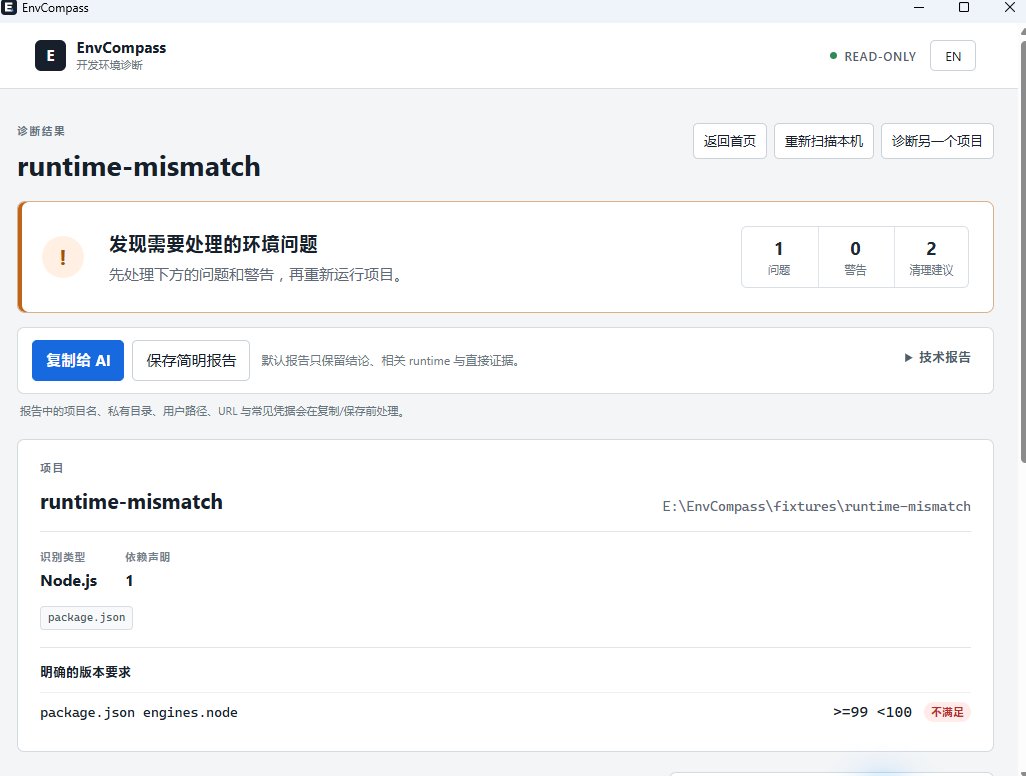
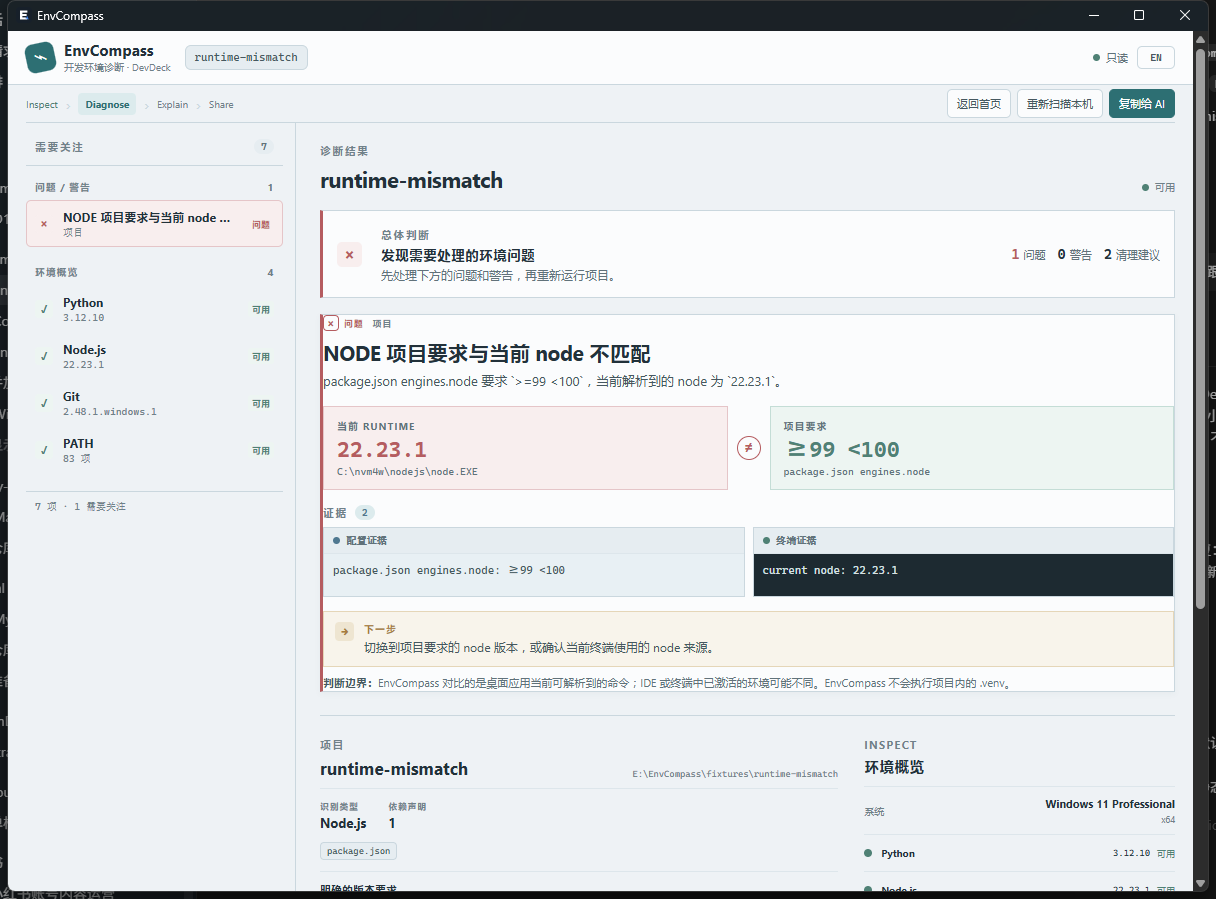
docs(ui): checkpoint DevDeck Light readability updates

diff --git a/src/App.css b/src/App.css
@@ -29,7 +29,7 @@
 
 * { box-sizing: border-box; }
 html, body, #root { min-height: 100%; height: 100%; }
-body { margin: 0; background: #dfe7eb; color: var(--ink); font-family: "Segoe UI", "Microsoft YaHei", "Noto Sans SC", system-ui, sans-serif; font-size: 13px; -webkit-font-smoothing: antialiased; }
+body { margin: 0; background: #dfe7eb; color: var(--ink); font-family: "Segoe UI", "Microsoft YaHei", "Noto Sans SC", system-ui, sans-serif; font-size: 14px; -webkit-font-smoothing: antialiased; }
 button, summary { font: inherit; }
 button { color: inherit; }
 button:disabled { cursor: wait; opacity: .6; }
@@ -53,12 +53,12 @@ code, .mono { font-family: var(--mono); font-variant-numeric: tabular-nums; }
 .lang-toggle { min-width: 38px; padding: 5px 8px; font: 700 10px var(--mono); }
 .lang-toggle:hover, .results-actions button:hover, .report-primary-actions button:hover, .advanced-report button:hover { background: var(--panel-2); }
 
-.workspace { width: min(1420px, calc(100% - 36px)); margin: 0 auto; }
+.workspace { width: min(1920px, calc(100% - 48px)); margin: 0 auto; }
 .home { padding: clamp(32px, 7vh, 78px) 0 28px; }
 .home-composition { display: grid; grid-template-columns: minmax(0, 1fr) 280px; gap: clamp(38px, 7vw, 110px); align-items: center; }
 .home-main { max-width: 760px; }
 .home-intro { max-width: 680px; }
-.eyebrow, .section-kicker { color: var(--faint); font-size: 10px; font-weight: 750; letter-spacing: .12em; text-transform: uppercase; }
+.eyebrow, .section-kicker { color: var(--faint); font-size: 11px; font-weight: 750; letter-spacing: .12em; text-transform: uppercase; }
 .home-intro h1 { max-width: 640px; margin: 12px 0 12px; font-size: clamp(29px, 4.5vw, 52px); line-height: 1.05; letter-spacing: -.045em; }
 .home-intro p { max-width: 610px; margin: 0; color: var(--ink-2); font-size: 15px; line-height: 1.65; }
 .action-panel { display: grid; gap: 9px; margin-top: 31px; }
@@ -109,21 +109,21 @@ code, .mono { font-family: var(--mono); font-variant-numeric: tabular-nums; }
 .stage-done strong { color: var(--ink-2); }
 
 .results { width: 100%; padding: 0 18px 28px; }
-.process-bar { width: min(1420px, 100%); margin: 0 auto; min-height: 38px; display: flex; align-items: center; gap: 14px; border-bottom: 1px solid var(--line); }
+.process-bar { width: min(1920px, 100%); margin: 0 auto; min-height: 38px; display: flex; align-items: center; gap: 14px; border-bottom: 1px solid var(--line); }
 .process-bar nav { display: flex; align-items: center; gap: 8px; color: var(--faint); font-size: 10px; }
 .process-bar nav b { color: var(--line); font-size: 15px; font-weight: 400; }
 .process-done { color: var(--required); }
 .process-active { padding: 4px 7px; border-radius: 4px; background: var(--accent-soft); color: var(--accent); font-weight: 700; }
 .results-actions { display: flex; align-items: center; gap: 6px; margin-left: auto; }
-.results-actions button { padding: 5px 8px; font-size: 10px; }
+.results-actions button { padding: 6px 9px; font-size: 11px; }
 .results-actions .primary, .report-primary-actions .primary { border-color: var(--accent); background: var(--accent); color: #fff; }
 .results-actions .primary:hover, .report-primary-actions .primary:hover { background: #245b5f; }
-.results-layout { width: min(1420px, 100%); margin: 0 auto; display: grid; grid-template-columns: 258px minmax(0, 1fr); min-height: 0; }
+.results-layout { width: min(1920px, 100%); margin: 0 auto; display: grid; grid-template-columns: 270px minmax(0, 1fr); min-height: 0; }
 .finding-navigator { min-width: 0; padding: 16px 12px 17px 0; border-right: 1px solid var(--line); }
 .navigator-heading { display: flex; align-items: center; justify-content: space-between; padding: 0 9px 11px; border-bottom: 1px solid var(--line); }
 .navigator-count, .evidence-count { min-width: 20px; padding: 2px 5px; border-radius: 10px; background: var(--panel-2); color: var(--muted); font: 700 10px var(--mono); text-align: center; }
 .navigator-group { padding: 14px 0 4px; }
-.navigator-group-label { display: flex; justify-content: space-between; padding: 0 9px 6px; color: var(--faint); font-size: 9px; font-weight: 750; letter-spacing: .08em; text-transform: uppercase; }
+.navigator-group-label { display: flex; justify-content: space-between; padding: 0 9px 6px; color: var(--faint); font-size: 10px; font-weight: 750; letter-spacing: .08em; text-transform: uppercase; }
 .navigator-item { width: 100%; min-width: 0; display: grid; grid-template-columns: 21px minmax(0, 1fr) auto; align-items: center; gap: 7px; padding: 8px; border: 1px solid transparent; border-radius: 5px; background: transparent; cursor: pointer; text-align: left; }
 button.navigator-item:hover, .navigator-item.is-active { border-color: var(--current-line); background: var(--current-bg); }
 .navigator-runtime { cursor: default; }
@@ -131,13 +131,13 @@ button.navigator-item:hover, .navigator-item.is-active { border-color: var(--cur
 .navigator-warning .navigator-symbol { background: var(--warning-bg); color: var(--warning); }
 .navigator-runtime .navigator-symbol { background: var(--required-bg); color: var(--required); }
 .navigator-copy { min-width: 0; display: grid; gap: 2px; }
-.navigator-copy strong { overflow: hidden; font-size: 11px; font-weight: 650; text-overflow: ellipsis; white-space: nowrap; }
-.navigator-copy small { overflow: hidden; color: var(--faint); font: 9px var(--mono); text-overflow: ellipsis; white-space: nowrap; }
-.navigator-tag { padding: 2px 4px; border-radius: 3px; background: var(--current-bg); color: var(--current); font-size: 8px; font-weight: 750; text-transform: uppercase; }
+.navigator-copy strong { overflow: hidden; font-size: 12px; font-weight: 650; text-overflow: ellipsis; white-space: nowrap; }
+.navigator-copy small { overflow: hidden; color: var(--faint); font: 10px var(--mono); text-overflow: ellipsis; white-space: nowrap; }
+.navigator-tag { padding: 2px 4px; border-radius: 3px; background: var(--current-bg); color: var(--current); font-size: 9px; font-weight: 750; text-transform: uppercase; }
 .navigator-warning .navigator-tag { background: var(--warning-bg); color: var(--warning); }
 .navigator-tag.status-available { background: var(--required-bg); color: var(--required); }
 .navigator-empty { margin: 0; padding: 8px 9px; color: var(--muted); font-size: 10px; line-height: 1.45; }
-.navigator-foot { margin-top: 14px; padding: 9px; border-top: 1px solid var(--line); color: var(--faint); font-size: 9px; }
+.navigator-foot { margin-top: 14px; padding: 9px; border-top: 1px solid var(--line); color: var(--faint); font-size: 10px; }
 .result-detail { min-width: 0; padding: 17px 0 0 24px; }
 .results-topline { display: flex; align-items: end; justify-content: space-between; gap: 18px; }
 .results-topline h1 { margin: 5px 0 0; font-size: 22px; letter-spacing: -.025em; }
@@ -149,8 +149,8 @@ button.navigator-item:hover, .navigator-item.is-active { border-color: var(--cur
 .diagnosis-clear .diagnosis-icon { background: var(--required-bg); color: var(--required); }
 .diagnosis-copy { min-width: 0; }
 .diagnosis-copy h2 { margin: 3px 0 2px; font-size: 14px; }
-.diagnosis-copy p { margin: 0; color: var(--muted); font-size: 11px; line-height: 1.45; }
-.diagnosis-counts { display: flex; gap: 12px; color: var(--muted); font-size: 10px; white-space: nowrap; }
+.diagnosis-copy p { margin: 0; color: var(--muted); font-size: 12px; line-height: 1.45; }
+.diagnosis-counts { display: flex; gap: 12px; color: var(--muted); font-size: 11px; white-space: nowrap; }
 .diagnosis-counts span { display: inline-flex; align-items: baseline; gap: 4px; }
 .diagnosis-counts strong { color: var(--ink); font: 700 14px var(--mono); }
 .diagnosis-attention .diagnosis-counts span:first-child strong { color: var(--current); }
@@ -167,16 +167,16 @@ button.navigator-item:hover, .navigator-item.is-active { border-color: var(--cur
 .finding-category { color: var(--faint); font-size: 9px; font-weight: 650; letter-spacing: .08em; text-transform: uppercase; }
 .finding h2 { margin: 8px 0 5px; font-size: 18px; line-height: 1.25; letter-spacing: -.02em; }
 .finding-primary h2 { font-size: 21px; }
-.finding-summary { margin: 0; color: var(--ink-2); font-size: 12px; line-height: 1.55; }
+.finding-summary { margin: 0; color: var(--ink-2); font-size: 13px; line-height: 1.55; }
 .runtime-comparison { display: grid; grid-template-columns: minmax(0, 1fr) 42px minmax(0, 1fr); align-items: stretch; margin-top: 15px; }
 .runtime-cell { min-width: 0; padding: 12px 13px; border: 1px solid; display: grid; gap: 4px; }
 .current-cell { border-color: var(--current-line); background: var(--current-bg); }
 .required-cell { border-color: var(--required-line); background: var(--required-bg); }
-.runtime-label { color: var(--muted); font-size: 9px; font-weight: 750; letter-spacing: .1em; text-transform: uppercase; }
+.runtime-label { color: var(--muted); font-size: 10px; font-weight: 750; letter-spacing: .1em; text-transform: uppercase; }
 .runtime-cell strong { overflow: hidden; font: 700 22px var(--mono); text-overflow: ellipsis; white-space: nowrap; }
 .current-cell strong { color: var(--current); }
 .required-cell strong { color: var(--required); }
-.runtime-cell code { overflow: hidden; color: var(--muted); font-size: 9px; text-overflow: ellipsis; white-space: nowrap; }
+.runtime-cell code { overflow: hidden; color: var(--muted); font-size: 10px; text-overflow: ellipsis; white-space: nowrap; }
 .comparison-divider { display: grid; place-items: center; color: var(--current); font: 700 13px var(--mono); }
 .comparison-divider span { width: 24px; height: 24px; display: grid; place-items: center; border: 1px solid currentColor; border-radius: 50%; background: var(--panel); }
 .evidence-block { margin-top: 15px; }
@@ -184,16 +184,16 @@ button.navigator-item:hover, .navigator-item.is-active { border-color: var(--cur
 .evidence-count { background: var(--accent-soft); color: var(--evidence); }
 .evidence-grid { display: grid; grid-template-columns: repeat(2, minmax(0, 1fr)); gap: 8px; }
 .evidence-card { min-width: 0; overflow: hidden; border: 1px solid var(--line); background: var(--panel); }
-.evidence-card-head { display: flex; align-items: center; gap: 6px; padding: 6px 9px; border-bottom: 1px solid var(--line-soft); background: var(--panel-2); color: var(--muted); font: 700 9px var(--mono); text-transform: uppercase; }
+.evidence-card-head { display: flex; align-items: center; gap: 6px; padding: 7px 9px; border-bottom: 1px solid var(--line-soft); background: var(--panel-2); color: var(--muted); font: 700 10px var(--mono); text-transform: uppercase; }
 .evidence-dot { width: 7px; height: 7px; border-radius: 50%; background: var(--evidence); }
 .evidence-terminal .evidence-dot { background: var(--required); }
-.evidence-card code { display: block; min-height: 42px; padding: 9px; overflow: hidden; background: var(--code-highlight); color: var(--ink-2); font-size: 10px; line-height: 1.45; text-overflow: ellipsis; white-space: pre-wrap; word-break: break-word; }
+.evidence-card code { display: block; min-height: 42px; padding: 9px; overflow: hidden; background: var(--code-highlight); color: var(--ink-2); font-size: 11px; line-height: 1.45; text-overflow: ellipsis; white-space: pre-wrap; word-break: break-word; }
 .evidence-terminal code { background: var(--term); color: var(--term-fg); }
 .recommendation { display: grid; grid-template-columns: 21px minmax(0, 1fr); gap: 8px; margin-top: 14px; padding: 10px 11px; border: 1px solid var(--warning-line); background: var(--warning-bg); }
 .next-step-mark { width: 19px; height: 19px; display: grid; place-items: center; border-radius: 4px; background: #eee5d1; color: var(--warning); font: 700 13px var(--mono); }
-.recommendation > div > span { display: block; color: var(--warning); font-size: 9px; font-weight: 750; letter-spacing: .1em; text-transform: uppercase; }
-.recommendation p { margin: 3px 0 0; color: var(--ink-2); font-size: 11px; line-height: 1.45; }
-.limitations { margin: 8px 0 0; color: var(--muted); font-size: 10px; line-height: 1.45; }
+.recommendation > div > span { display: block; color: var(--warning); font-size: 10px; font-weight: 750; letter-spacing: .1em; text-transform: uppercase; }
+.recommendation p { margin: 3px 0 0; color: var(--ink-2); font-size: 12px; line-height: 1.45; }
+.limitations { margin: 8px 0 0; color: var(--muted); font-size: 11px; line-height: 1.45; }
 .limitations strong { color: var(--ink-2); }
 .finding-list { display: grid; gap: 9px; }
 .remaining-findings { margin-top: 17px; }
@@ -285,7 +285,7 @@ button.navigator-item:hover, .navigator-item.is-active { border-color: var(--cur
 .path-row { display: flex; justify-content: space-between; gap: 12px; padding: 5px 8px; border-bottom: 1px solid var(--line-soft); font-size: 9px; }
 .path-row:last-child { border-bottom: 0; }
 .path-row span { color: var(--warning); white-space: nowrap; }
-.statusbar { width: min(1420px, 100%); min-height: 28px; display: flex; align-items: center; gap: 8px; margin: 17px auto 0; padding: 0 10px; background: var(--term); color: #9eafb4; font-size: 9px; }
+.statusbar { width: min(1920px, 100%); min-height: 30px; display: flex; align-items: center; gap: 8px; margin: 17px auto 0; padding: 0 10px; background: var(--term); color: #9eafb4; font-size: 10px; }
 .statusbar .live-dot { width: 6px; height: 6px; animation: none; }
 .status-separator { width: 1px; height: 11px; background: #3b4c54; }
 .status-spacer { flex: 1; }

diff --git a/src/App.tsx b/src/App.tsx
@@ -586,9 +586,10 @@ function App() {
           <button
             className="lang-toggle"
             type="button"
-            onClick={() =>
-              setLang((current) => (current === "zh-CN" ? "en-US" : "zh-CN"))
-            }
+            onClick={() => {
+              setNotice(null);
+              setLang((current) => (current === "zh-CN" ? "en-US" : "zh-CN"));
+            }}
           >
             {lang === "zh-CN" ? "EN" : "中文"}
           </button>

diff --git a/README.en.md b/README.en.md
@@ -10,7 +10,7 @@ EnvCompass is a Windows development environment doctor. It checks project declar
 
 The current Preview targets Windows x64. Scans stay on the device: EnvCompass does not upload data, modify the system, execute project scripts, require an account, or collect telemetry.
 
-![EnvCompass home screen](./docs/assets/envcompass-home.png)
+![EnvCompass runtime mismatch result](./docs/assets/envcompass-project-results.png)
 
 ## Download and install
 
@@ -39,7 +39,7 @@ The packaged application version for the current Preview line remains `0.1.0`; u
 
 The screenshot below uses the repository's synthetic fixture. It deliberately declares an unsatisfiable Node.js range to demonstrate an evidence-backed mismatch; it is not real user scan data.
 
-![EnvCompass synthetic project diagnosis](./docs/assets/envcompass-project-results.png)
+![EnvCompass home screen](./docs/assets/envcompass-home.png)
 
 ## Privacy and read-only boundaries
 

diff --git a/README.md b/README.md
@@ -10,7 +10,7 @@ EnvCompass 是一个 Windows 开发环境诊断工具。它会把项目声明与
 
 当前 Preview 面向 Windows x64。扫描全部在本机完成；EnvCompass 不上传数据、不修改系统、不执行项目脚本，也没有账号或遥测。
 
-![EnvCompass 首页](./docs/assets/envcompass-home.png)
+![EnvCompass runtime mismatch 结果](./docs/assets/envcompass-project-results.png)
 
 ## 下载与安装
 
@@ -39,7 +39,7 @@ EnvCompass 是一个 Windows 开发环境诊断工具。它会把项目声明与
 
 下图使用仓库内的 synthetic fixture；它故意声明无法满足的 Node.js 版本范围，用于展示有证据的 mismatch，而不是用户真实扫描数据。
 
-![EnvCompass synthetic project 诊断结果](./docs/assets/envcompass-project-results.png)
+![EnvCompass 首页](./docs/assets/envcompass-home.png)
 
 ## 隐私与只读边界
 
